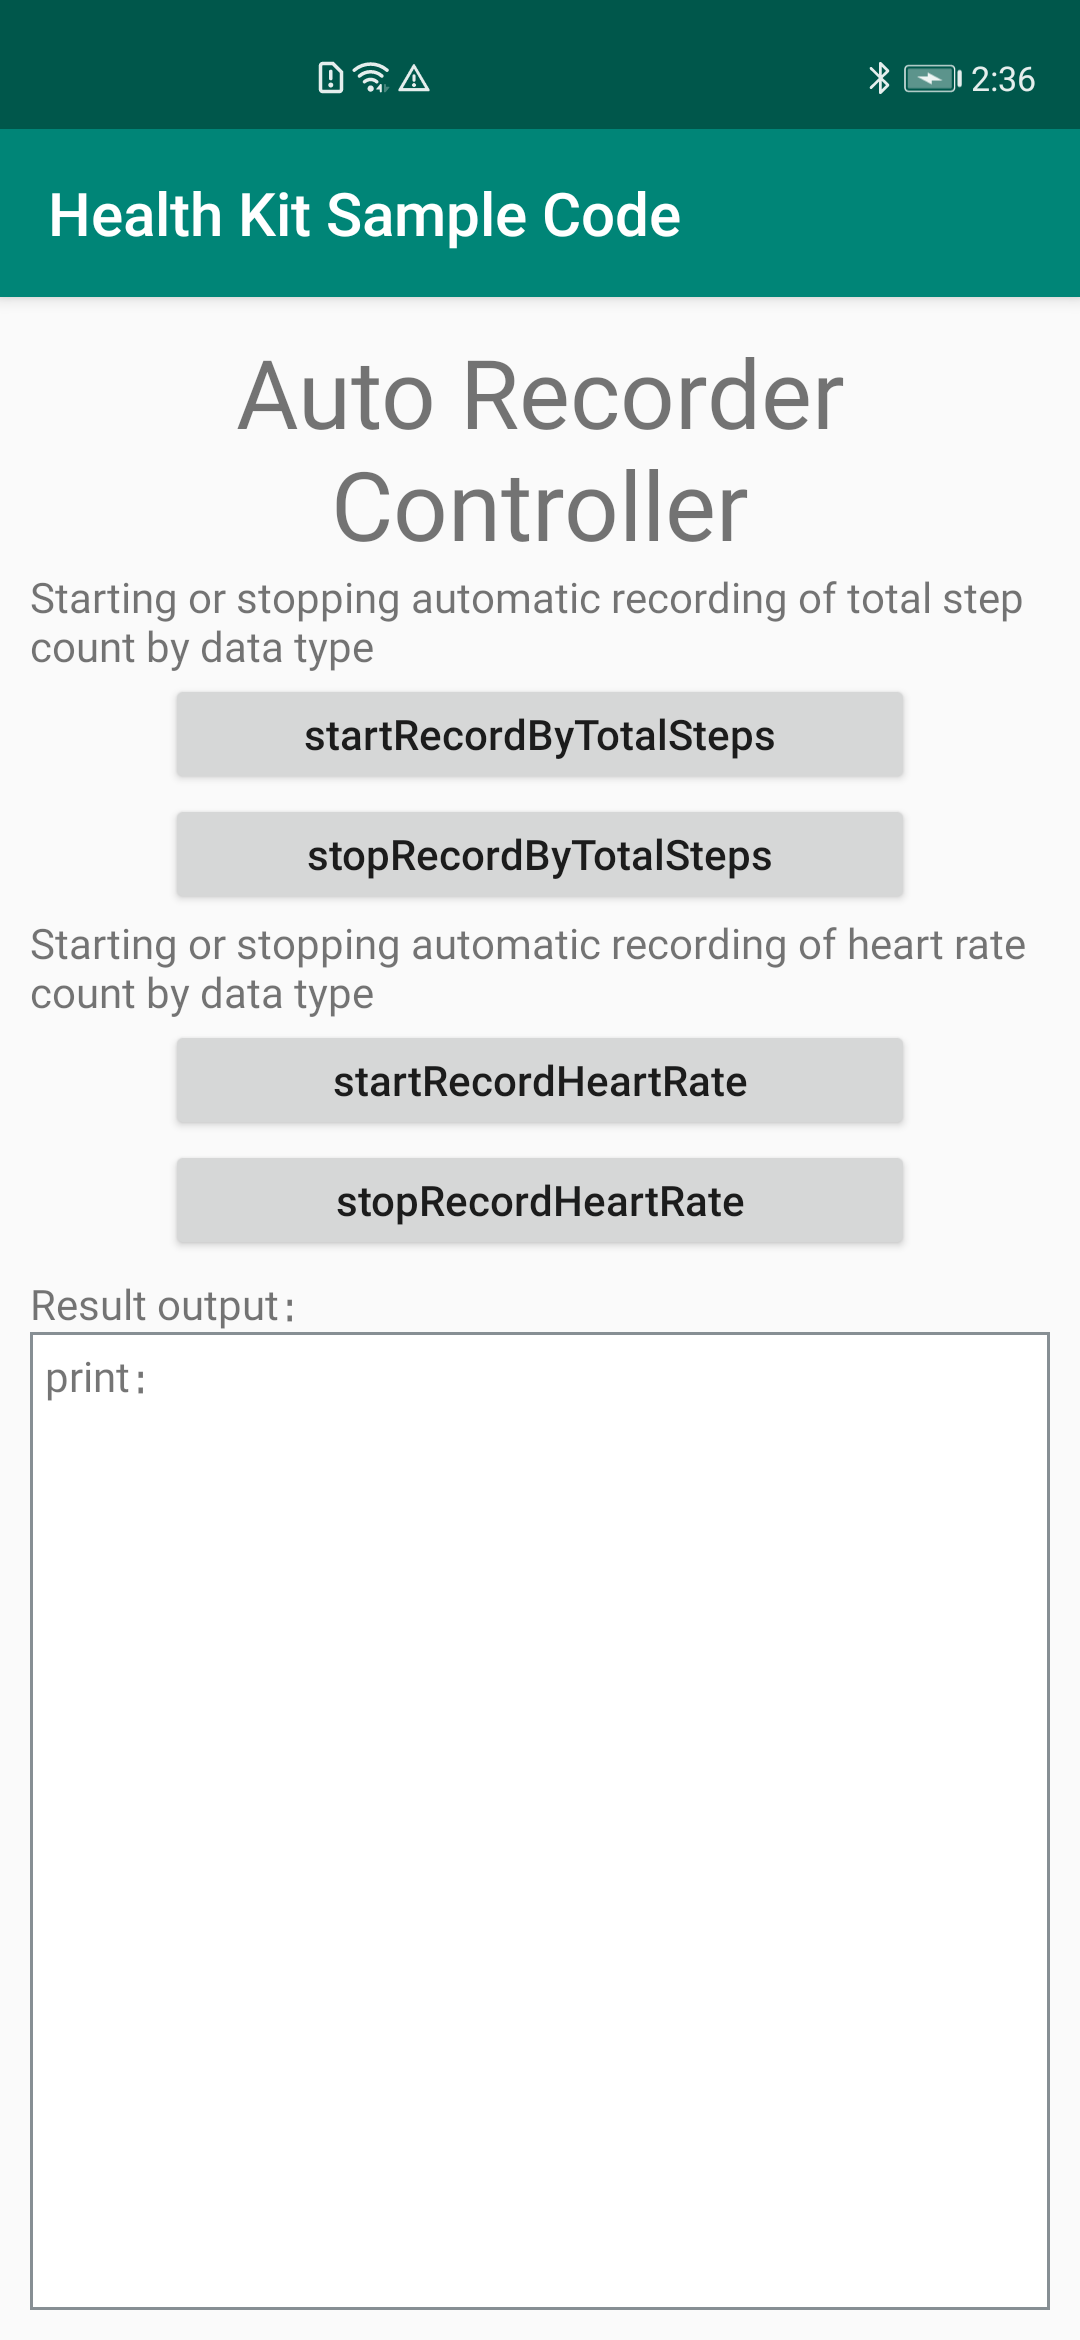
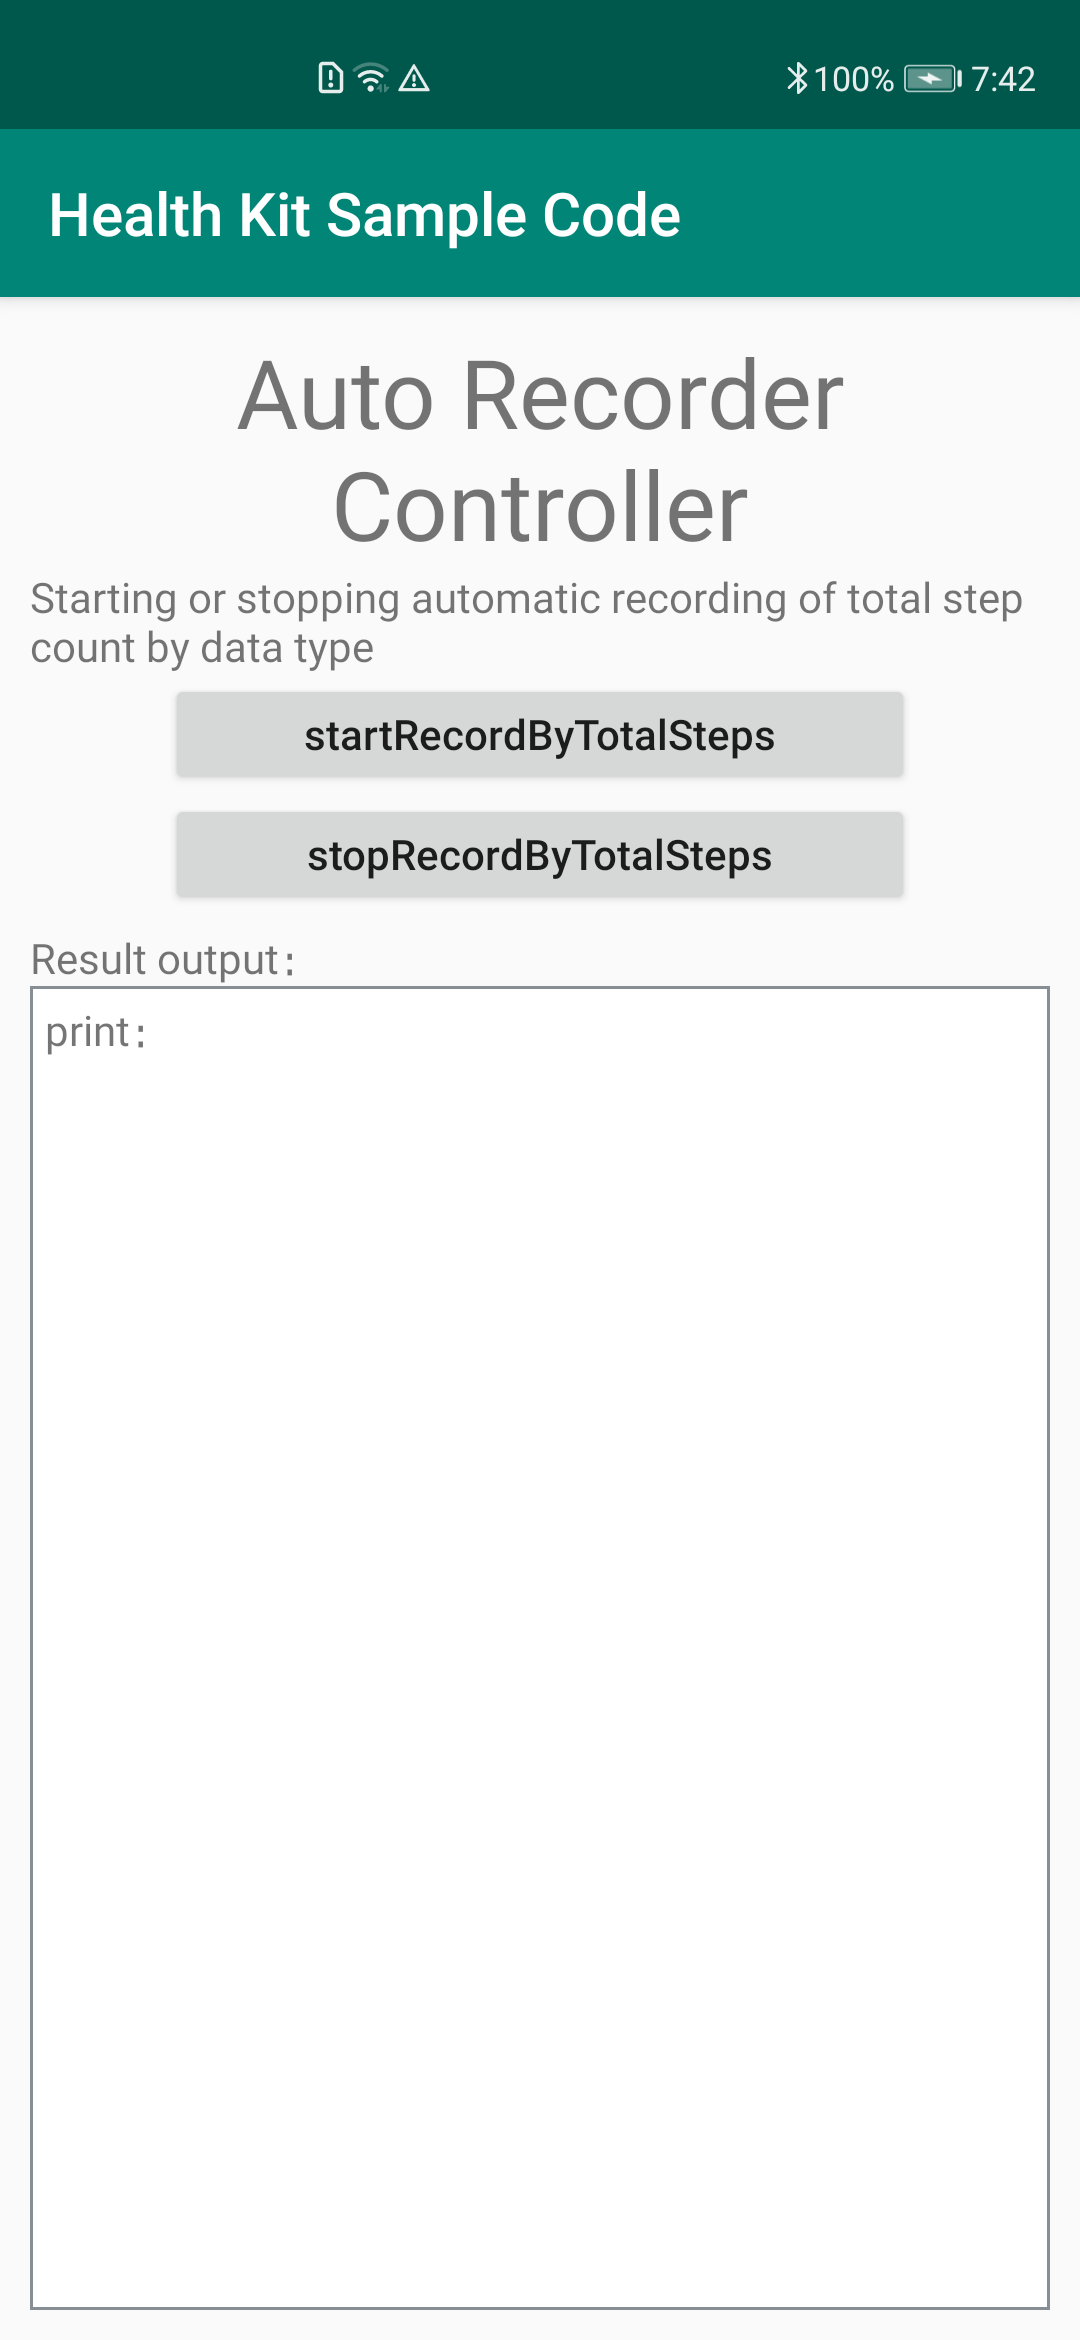
update autoRecorder controller

diff --git a/src/app/src/main/java/com/huawei/demo/health/HealthKitAutoRecorderControllerActivity.java b/src/app/src/main/java/com/huawei/demo/health/HealthKitAutoRecorderControllerActivity.java
@@ -16,11 +16,17 @@
 
 package com.huawei.demo.health;
 
+import android.annotation.SuppressLint;
+import android.app.Activity;
 import android.content.BroadcastReceiver;
 import android.content.Context;
 import android.content.Intent;
 import android.content.IntentFilter;
+import android.net.Uri;
+import android.os.Build;
 import android.os.Bundle;
+import android.os.PowerManager;
+import android.provider.Settings;
 import android.text.method.ScrollingMovementMethod;
 import android.util.Log;
 import android.view.View;
@@ -60,6 +66,8 @@ public class HealthKitAutoRecorderControllerActivity extends AppCompatActivity {
     // HMS Health AutoRecorderController
     private AutoRecorderController autoRecorderController;
 
+    private Context mContext;
+
     // Text control that displays action information on the page
     private TextView logInfoView;
 
@@ -71,13 +79,56 @@ public class HealthKitAutoRecorderControllerActivity extends AppCompatActivity {
     // Record Start Times
     int count = 0;
 
+    // WakeLock
+    private PowerManager.WakeLock wl;
+
+    public void ignoreBatteryOptimization(Activity activity) {
+        if (Build.VERSION.SDK_INT >= Build.VERSION_CODES.M) {
+            try {
+                PowerManager powerManager = (PowerManager) getSystemService(POWER_SERVICE);
+                boolean hasIgnored = powerManager.isIgnoringBatteryOptimizations(activity.getPackageName());
+                /**
+                 * Check whether the current app is added to the battery optimization trust list,
+                 * If not, a dialog box is displayed for you to add a battery optimization trust list.
+                 * */
+                if (!hasIgnored) {
+                    Intent newIntent = new Intent(Settings.ACTION_REQUEST_IGNORE_BATTERY_OPTIMIZATIONS);
+                    newIntent.setData(Uri.parse("package:" + activity.getPackageName()));
+                    startActivity(newIntent);
+                }
+            } catch (Exception e) {
+                e.printStackTrace();
+            }
+        }
+    }
+
+    @SuppressLint("InvalidWakeLockTag")
     @Override
     protected void onCreate(Bundle savedInstanceState) {
         super.onCreate(savedInstanceState);
         setContentView(R.layout.activity_health_autorecorder);
+        mContext = this;
         logInfoView = (TextView) findViewById(R.id.auto_recorder_log_info);
         logInfoView.setMovementMethod(ScrollingMovementMethod.getInstance());
         initData();
+        PowerManager pm = (PowerManager) mContext.getSystemService(Context.POWER_SERVICE);
+        wl = pm.newWakeLock(PowerManager.PARTIAL_WAKE_LOCK,TAG);
+        wl.acquire();
+        Log.i(TAG, " wakelock wl.acquire(); ");
+    }
+
+    @Override
+    protected void onResume() {
+        super.onResume();
+        ignoreBatteryOptimization(this);
+    }
+
+    @Override
+    protected void onDestroy() {
+        super.onDestroy();
+        wl.release();
+        wl = null;
+        Log.i(TAG, " wakelock wl.release(); ");
     }
 
     private void initData() {
@@ -232,133 +283,6 @@ public class HealthKitAutoRecorderControllerActivity extends AppCompatActivity {
     /**
      * construct OnSamplePointListener
      */
-    private OnSamplePointListener onSamplePointListener = new OnSamplePointListener() {
-        @Override
-        public void onSamplePoint(SamplePoint samplePoint) {
-        }
+    private OnSamplePointListener onSamplePointListener = samplePoint -> {
     };
-
-    /**
-     * start record By DataType
-     *
-     * @param view the button view
-     */
-    public void startRecordHeartRate(View view) {
-        logger("starRecordByType ······");
-        if (autoRecorderController == null) {
-            HiHealthOptions options = HiHealthOptions.builder().build();
-            AuthHuaweiId signInHuaweiId = HuaweiIdAuthManager.getExtendedAuthResult(options);
-            autoRecorderController = HuaweiHiHealth.getAutoRecorderController(this, signInHuaweiId);
-        }
-
-        // 使用Client Task调用方式
-        Task<Void> task =
-            autoRecorderController.startRecord(DataType.DT_INSTANTANEOUS_HEART_RATE, new OnSamplePointListener() {
-                @Override
-                public void onSamplePoint(SamplePoint samplePoint) {
-                    showDataMessage(samplePoint);
-                }
-
-                @Override
-                public void onException(int i, String s) {
-                    showException(i, s);
-                }
-            }).addOnCompleteListener(new OnCompleteListener<Void>() {
-                @Override
-                public void onComplete(Task<Void> taskResult) {
-                    // the interface won't always success, if u use the onComplete interface, u should add the judgement
-                    // of result is successful or not. the fail reason include:
-                    // 1.the app hasn't been granted the scropes
-                    // 2.this type is not supported so far
-                    if (taskResult.isSuccessful()) {
-                        logger("onComplete starRecordHeartRate Successful");
-                    } else {
-                        logger("onComplete starRecordHeartRate Failed");
-                    }
-                }
-            }).addOnSuccessListener(new OnSuccessListener<Void>() {
-                @Override
-                public void onSuccess(Void result) {
-                    // u could call addOnSuccessListener to print something
-                    logger("onSuccess starRecordHeartRate Successful");
-                    logger(SPLIT);
-                }
-            }).addOnFailureListener(new OnFailureListener() {
-                @Override
-                public void onFailure(Exception e) {
-                    // otherwise u could call addOnFailureListener to catch the fail result
-                    logger("onFailure starRecordHeartRate Failed: " + e.getMessage());
-                    logger(SPLIT);
-                }
-            });
-    }
-
-    private void showDataMessage(SamplePoint samplePoint) {
-        if (samplePoint != null) {
-            logger("Sample point type: " + samplePoint.getDataType().getName());
-            for (Field field : samplePoint.getDataType().getFields()) {
-                logger("Field: " + field.getName() + " Value: " + samplePoint.getFieldValue(field));
-                logger(stampToData(String.valueOf(System.currentTimeMillis())));
-            }
-        } else {
-            logger("samplePoint is null!! ");
-            logger(SPLIT);
-        }
-    }
-
-    private void showException(int i, String s) {
-        logger("Exception occurs, exception id: " + i + " msg is : " + s + System.lineSeparator());
-    }
-
-    /**
-     * stop record By DataType
-     *
-     * @param view the button view
-     */
-    public void stopRecordHeartRate(View view) {
-        logger("stopRecordHeartRate doing ······");
-        if (autoRecorderController == null) {
-            HiHealthOptions options = HiHealthOptions.builder().build();
-            AuthHuaweiId signInHuaweiId = HuaweiIdAuthManager.getExtendedAuthResult(options);
-            autoRecorderController = HuaweiHiHealth.getAutoRecorderController(this, signInHuaweiId);
-        }
-
-        autoRecorderController.stopRecord(DataType.DT_INSTANTANEOUS_HEART_RATE, new OnSamplePointListener() {
-            @Override
-            public void onSamplePoint(SamplePoint samplePoint) {
-            }
-
-            @Override
-            public void onException(int i, String s) {
-                showException(i, s);
-            }
-        }).addOnCompleteListener(new OnCompleteListener<Void>() {
-            @Override
-            public void onComplete(Task<Void> taskResult) {
-                // the interface won't always success, if u use the onComplete interface, u should add the judgement
-                // of result is successful or not. the fail reason include:
-                // 1.the app hasn't been granted the scropes
-                // 2.this type is not supported so far
-                if (taskResult.isSuccessful()) {
-                    logger("onComplete stopRecordHeartRate Successful");
-                } else {
-                    logger("onComplete stopRecordHeartRate Failed");
-                }
-            }
-        }).addOnSuccessListener(new OnSuccessListener<Void>() {
-            @Override
-            public void onSuccess(Void result) {
-                // u could call addOnSuccessListener to print something
-                logger("onSuccess stopRecordHeartRate Successful");
-                logger(SPLIT);
-            }
-        }).addOnFailureListener(new OnFailureListener() {
-            @Override
-            public void onFailure(Exception e) {
-                // otherwise u could call addOnFailureListener to catch the fail result
-                logger("onFailure stopRecordHeartRate Failed: " + e.getMessage());
-                logger(SPLIT);
-            }
-        });
-    }
 }

diff --git a/src/app/src/main/java/com/huawei/demo/health/PersistService.java b/src/app/src/main/java/com/huawei/demo/health/PersistService.java
@@ -29,14 +29,10 @@ import android.os.IBinder;
 import android.util.Log;
 
 import com.huawei.health.demo.R;
-import com.huawei.hmf.tasks.OnFailureListener;
-import com.huawei.hmf.tasks.OnSuccessListener;
 import com.huawei.hms.hihealth.AutoRecorderController;
 import com.huawei.hms.hihealth.HiHealthOptions;
 import com.huawei.hms.hihealth.HuaweiHiHealth;
 import com.huawei.hms.hihealth.data.DataType;
-import com.huawei.hms.hihealth.data.SamplePoint;
-import com.huawei.hms.hihealth.options.OnSamplePointListener;
 import com.huawei.hms.support.hwid.HuaweiIdAuthManager;
 import com.huawei.hms.support.hwid.result.AuthHuaweiId;
 
@@ -44,7 +40,9 @@ import androidx.annotation.Nullable;
 import androidx.core.app.NotificationCompat;
 
 /**
- * 定义一个前台服务
+ * Defining a Frontend Service
+ *
+ * @since 2020-09-05
  */
 public class PersistService extends Service {
     private static final String TAG = "PersistService";
@@ -58,9 +56,7 @@ public class PersistService extends Service {
     public void onCreate() {
         super.onCreate();
         context = this;
-        HiHealthOptions options = HiHealthOptions.builder().build();
-        AuthHuaweiId signInHuaweiId = HuaweiIdAuthManager.getExtendedAuthResult(options);
-        autoRecorderController = HuaweiHiHealth.getAutoRecorderController(context, signInHuaweiId);
+        initAutoRecorderController();
         Log.i(TAG, "service is create.");
     }
 
@@ -79,10 +75,24 @@ public class PersistService extends Service {
         return super.onStartCommand(intent, flags, startId);
     }
 
-    // Create a listener and return callback data.
-    private OnSamplePointListener onSamplePointListener = new OnSamplePointListener() {
-        @Override
-        public void onSamplePoint(SamplePoint samplePoint) {
+    /**
+     * init AutoRecorderController
+     */
+    private void initAutoRecorderController() {
+        HiHealthOptions options = HiHealthOptions.builder().build();
+        AuthHuaweiId signInHuaweiId = HuaweiIdAuthManager.getExtendedAuthResult(options);
+        autoRecorderController = HuaweiHiHealth.getAutoRecorderController(context, signInHuaweiId);
+    }
+
+    /**
+     * Callback Interface for Starting the Total Step Count
+     */
+    private void getRemoteService() {
+        if (autoRecorderController == null) {
+            initAutoRecorderController();
+        }
+        // Start recording real-time steps.
+        autoRecorderController.startRecord(DataType.DT_CONTINUOUS_STEPS_TOTAL, samplePoint -> {
             // The step count, time, and type data reported by the pedometer is called back to the app through
             // samplePoint.
             Intent intent = new Intent();
@@ -90,29 +100,8 @@ public class PersistService extends Service {
             intent.setAction("HealthKitService");
             // Transmits service data to activities through broadcast.
             sendBroadcast(intent);
-        }
-    };
-
-    /**
-     * Callback Interface for Starting the Total Step Count
-     */
-    private void getRemoteService() {
-        // This interface supports the data type of DT_CONTINUOUS_STEPS_TOTAL.
-        DataType dataType = DataType.DT_CONTINUOUS_STEPS_TOTAL;
-        // Start recording real-time steps.
-        autoRecorderController.startRecord(dataType, onSamplePointListener)
-            .addOnSuccessListener(new OnSuccessListener<Void>() {
-                @Override
-                public void onSuccess(Void aVoid) {
-                    Log.i(TAG, "record steps success... ");
-                }
-            })
-            .addOnFailureListener(new OnFailureListener() {
-                @Override
-                public void onFailure(Exception e) {
-                    Log.i(TAG, "report steps failed... ");
-                }
-            });
+        }).addOnSuccessListener(aVoid -> Log.i(TAG, "record steps success... "))
+                .addOnFailureListener(e -> Log.i(TAG, "report steps failed... "));
     }
 
     /**
